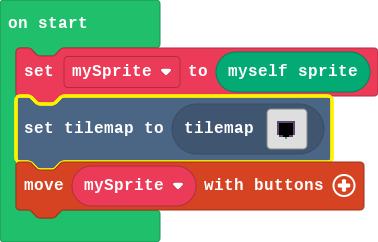
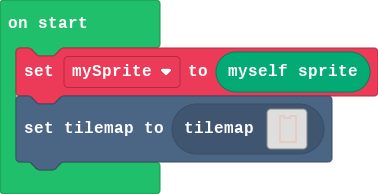
Update pxt.json, main.blocks, main.ts, tilemap.g.jres, tilemap.g.ts

diff --git a/tilemap.g.ts b/tilemap.g.ts
@@ -1,0 +1,133 @@
+// Auto-generated code. Do not edit.
+namespace myTiles {
+    //% fixedInstance jres blockIdentity=images._tile
+    export const tile1 = image.ofBuffer(hex``);
+    //% fixedInstance jres blockIdentity=images._tile
+    export const tile2 = image.ofBuffer(hex``);
+    //% fixedInstance jres blockIdentity=images._tile
+    export const tile3 = image.ofBuffer(hex``);
+    //% fixedInstance jres blockIdentity=images._tile
+    export const transparency16 = image.ofBuffer(hex``);
+    //% fixedInstance jres blockIdentity=images._tile
+    export const tile4 = image.ofBuffer(hex``);
+    //% fixedInstance jres blockIdentity=images._tile
+    export const tile5 = image.ofBuffer(hex``);
+    //% fixedInstance jres blockIdentity=images._tile
+    export const tile6 = image.ofBuffer(hex``);
+    //% fixedInstance jres blockIdentity=images._tile
+    export const tile7 = image.ofBuffer(hex``);
+    //% fixedInstance jres blockIdentity=images._tile
+    export const tile8 = image.ofBuffer(hex``);
+    //% fixedInstance jres blockIdentity=images._tile
+    export const tile9 = image.ofBuffer(hex``);
+    //% fixedInstance jres blockIdentity=images._tile
+    export const tile10 = image.ofBuffer(hex``);
+    //% fixedInstance jres blockIdentity=images._tile
+    export const tile11 = image.ofBuffer(hex``);
+    //% fixedInstance jres blockIdentity=images._tile
+    export const tile12 = image.ofBuffer(hex``);
+
+    helpers._registerFactory("tilemap", function(name: string) {
+        switch(helpers.stringTrim(name)) {
+            case "level":
+            case "level2":return tiles.createTilemap(hex`1000100000000000000000000000000000000000000000000101010000010101010000000000000001000101010100000100000000000000010000000000000001000000000000000100000000000000010000000000000001000000000000000100000000000000010000000000000001000000000000000100000000000000010000000000000001000000000000000100000000000000010000000000000001000000000000000100000000000000010000000000000001000000000000000100000000000000010000000000000001000000000000000100000000000000010000000000000001010101010101010100000000000000000000000000000000000000`, img`
+. . . . . . . . . . . . . . . . 
+. . . . 2 2 2 . . 2 2 2 2 . . . 
+. . . . 2 . 2 2 2 2 . . 2 . . . 
+. . . . 2 . . . . . . . 2 . . . 
+. . . . 2 . . . . . . . 2 . . . 
+. . . . 2 . . . . . . . 2 . . . 
+. . . . 2 . . . . . . . 2 . . . 
+. . . . 2 . . . . . . . 2 2 . . 
+. . . . 2 . . . . . . . 2 2 . . 
+. . . . 2 . . . . . . . 2 2 . . 
+. . . . 2 . . . . . . . 2 2 . . 
+. . . . 2 . . . . . . . 2 2 . . 
+. . . . 2 . . . . . . . 2 . . . 
+. . . . 2 . . . . . . . 2 . . . 
+. . . . 2 2 2 2 2 2 2 2 2 . . . 
+. . . . . . . . . . . . . . . . 
+`, [myTiles.transparency16,sprites.castle.tilePath5], TileScale.Sixteen);
+            case "level3":
+            case "level3":return tiles.createTilemap(hex`1000100000000000000000000000000000000000000000000000000000000000000000000000000000000000000000000000000000000000000000000000000000000000000000000000000000000000000000000000000000000000000000000000000000000000000000000000000000000000000000000000000000000000000000000000000000000000000000000000000000000000000000000000000000000000000000000000000000000000000000000000000000000000000000000000000000000000000000000000000000000000000000000000000000000000000000000000000000000000000000000000000000000000000000000000000000000000`, img`
+. . . . . . . . . . . . . . . . 
+. . . . . . . . . . . . . . . . 
+. . . . . . . . . . . . . . . . 
+. . . . . . . . . . . . . . . . 
+. . . . . . . . . . . . . . . . 
+. . . . . . . . . . . . . . . . 
+. . . . . . . . . . . . . . . . 
+. . . . . . . . . . . . . . . . 
+. . . . . . . . . . . . . . . . 
+. . . . . . . . . . . . . . . . 
+. . . . . . . . . . . . . . . . 
+. . . . . . . . . . . . . . . . 
+. . . . . . . . . . . . . . . . 
+. . . . . . . . . . . . . . . . 
+. . . . . . . . . . . . . . . . 
+. . . . . . . . . . . . . . . . 
+`, [myTiles.transparency16], TileScale.Sixteen);
+            case "level1":
+            case "level1":return tiles.createTilemap(hex`1000100000000000000000000000000000000000000000000000000000000000000000000000000000000000000000000000000000000000000000000000000000000000000000000000000000000000000000000000000000000000000000000000000000000000000000000000000000000000000000000000000000000000000000000000000000000000000000000000000000000000000000000000000000000000000000000000000000000000000000000000000000000000000000000000000000000000000000000000000000000000000000000000000000000000000000000000000000000000000000000000000000000000000000000000000000000000`, img`
+. . . . . . . . . . . . . . . . 
+. . . . . . . . . . . . . . . . 
+. . . . . . . . . . . . . . . . 
+. . . . . . . . . . . . . . . . 
+. . . . . . . . . . . . . . . . 
+. . . . . . . . . . . . . . . . 
+. . . . . . . . . . . . . . . . 
+. . . . . . . . . . . . . . . . 
+. . . . . . . . . . . . . . . . 
+. . . . . . . . . . . . . . . . 
+. . . . . . . . . . . . . . . . 
+. . . . . . . . . . . . . . . . 
+. . . . . . . . . . . . . . . . 
+. . . . . . . . . . . . . . . . 
+. . . . . . . . . . . . . . . . 
+. . . . . . . . . . . . . . . . 
+`, [], -Infinity);
+            case "level4":
+            case "level4":return tiles.createTilemap(hex`1000100000000000000000000000000000000000000000000000000000000000000000000000000000000000000000000000000000000000000000000000000000000000000000000000000000000000000000000000000000000000000000000000000000000000000000000000000000000000000000000000000000000000000000000000000000000000000000000000000000000000000000000000000000000000000000000000000000000000000000000000000000000000000000000000000000000000000000000000000000000000000000000000000000000000000000000000000000000000000000000000000000000000000000000000000000000000`, img`
+. . . . . . . . . . . . . . . . 
+. . . . . . . . . . . . . . . . 
+. . . . . . . . . . . . . . . . 
+. . . . . . . . . . . . . . . . 
+. . . . . . . . . . . . . . . . 
+. . . . . . . . . . . . . . . . 
+. . . . . . . . . . . . . . . . 
+. . . . . . . . . . . . . . . . 
+. . . . . . . . . . . . . . . . 
+. . . . . . . . . . . . . . . . 
+. . . . . . . . . . . . . . . . 
+. . . . . . . . . . . . . . . . 
+. . . . . . . . . . . . . . . . 
+. . . . . . . . . . . . . . . . 
+. . . . . . . . . . . . . . . . 
+. . . . . . . . . . . . . . . . 
+`, [myTiles.transparency16], TileScale.Sixteen);
+        }
+        return null;
+    })
+
+    helpers._registerFactory("tile", function(name: string) {
+        switch(helpers.stringTrim(name)) {
+            case "tile1":return tile1;
+            case "tile2":return tile2;
+            case "myTile":
+            case "tile3":return tile3;
+            case "transparency16":return transparency16;
+            case "tile4":return tile4;
+            case "tile5":return tile5;
+            case "tile6":return tile6;
+            case "tile7":return tile7;
+            case "tile8":return tile8;
+            case "tile9":return tile9;
+            case "tile10":return tile10;
+            case "tile11":return tile11;
+            case "tile12":return tile12;
+        }
+        return null;
+    })
+
+}
+// Auto-generated code. Do not edit.

diff --git a/main.ts b/main.ts
@@ -1,3 +1,2 @@
 let mySprite = Render.getRenderSpriteVariable()
 tiles.setCurrentTilemap(tilemap`level`)
-controller.moveSprite(mySprite)
